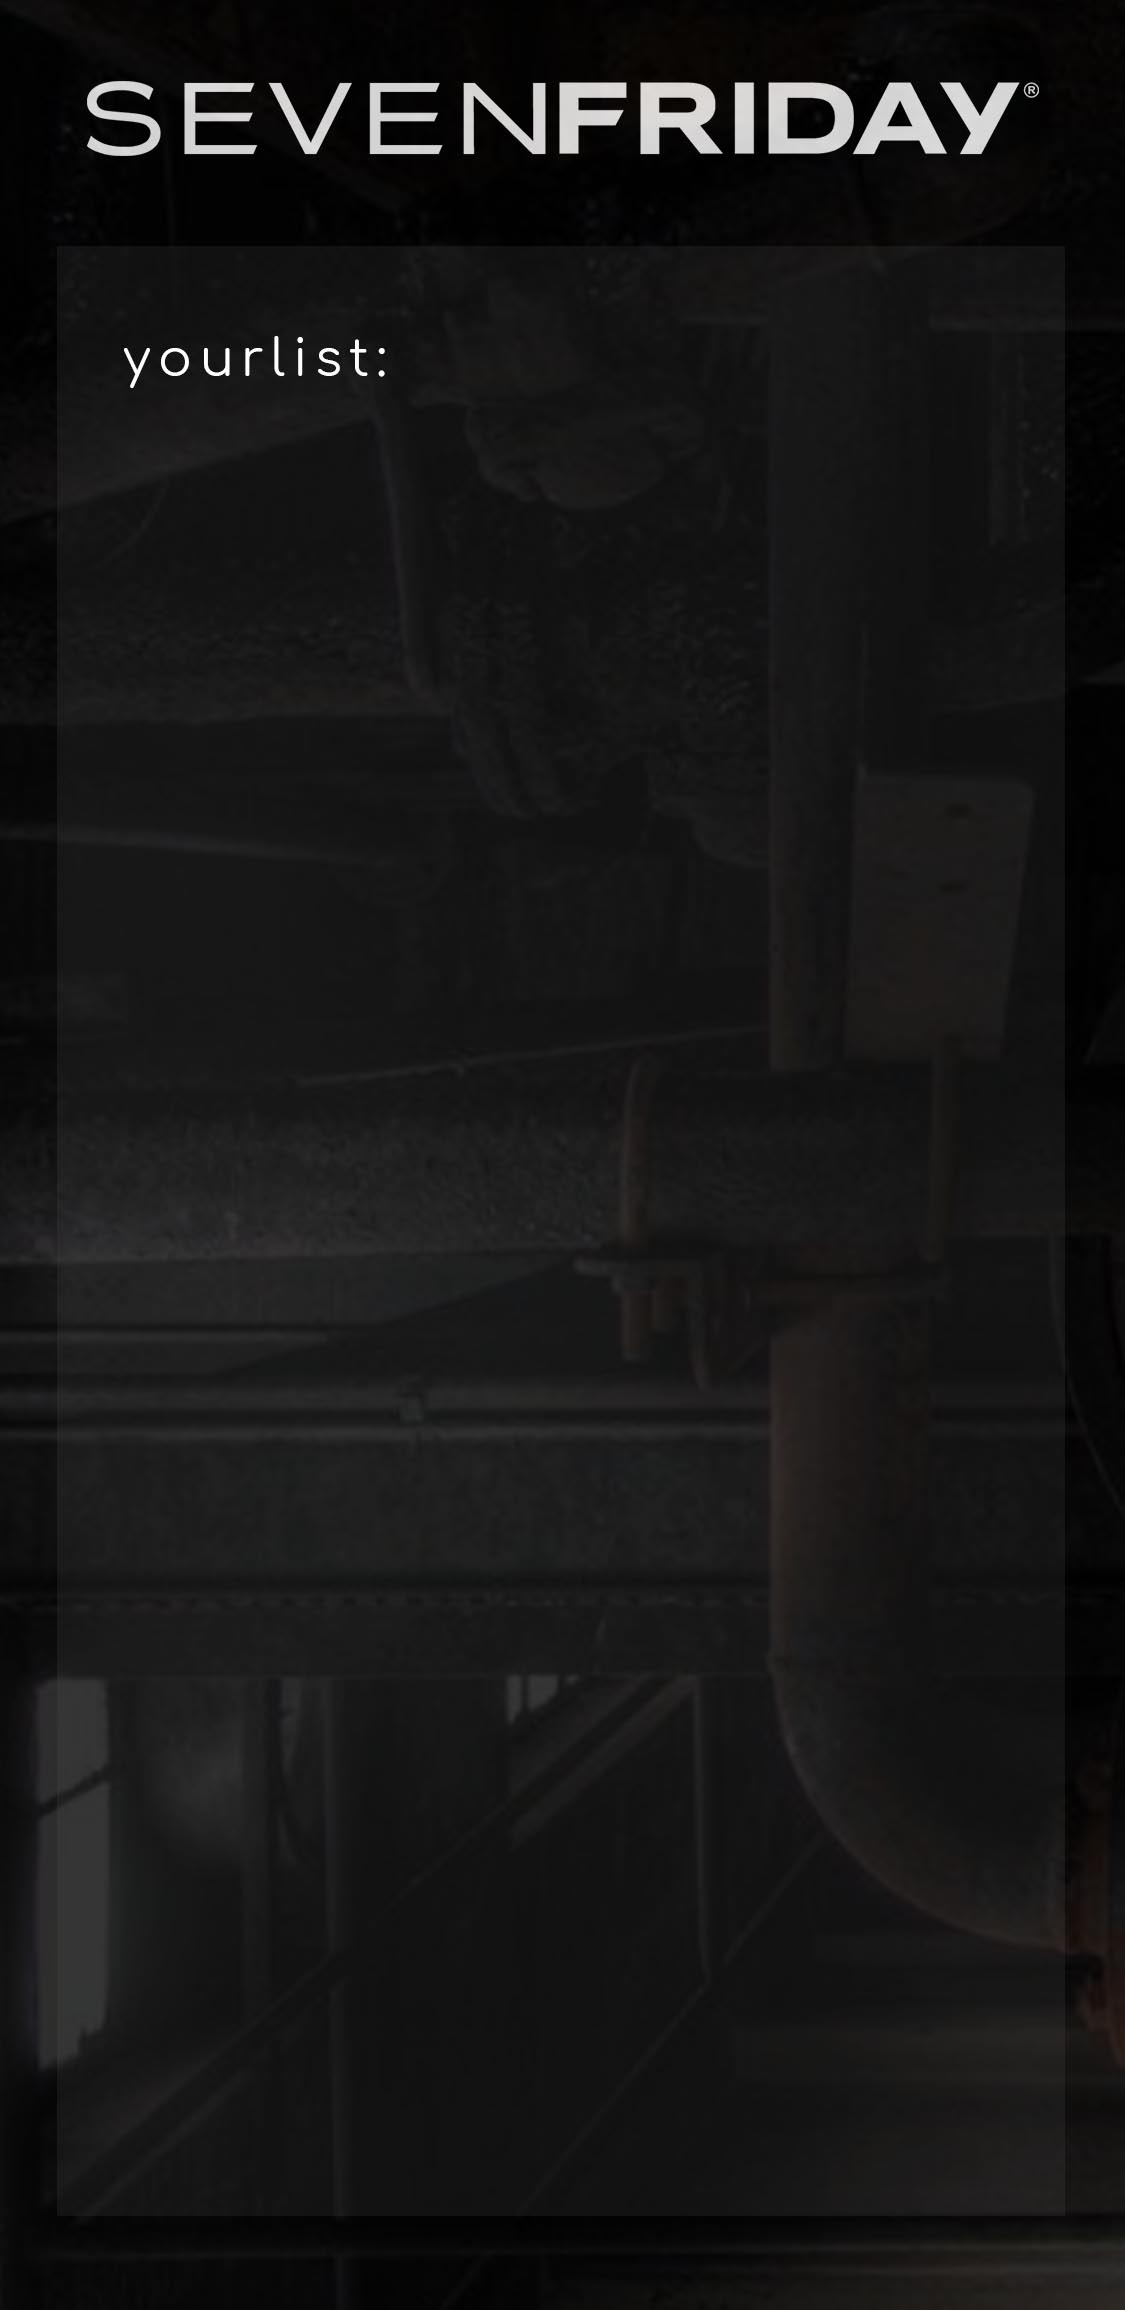
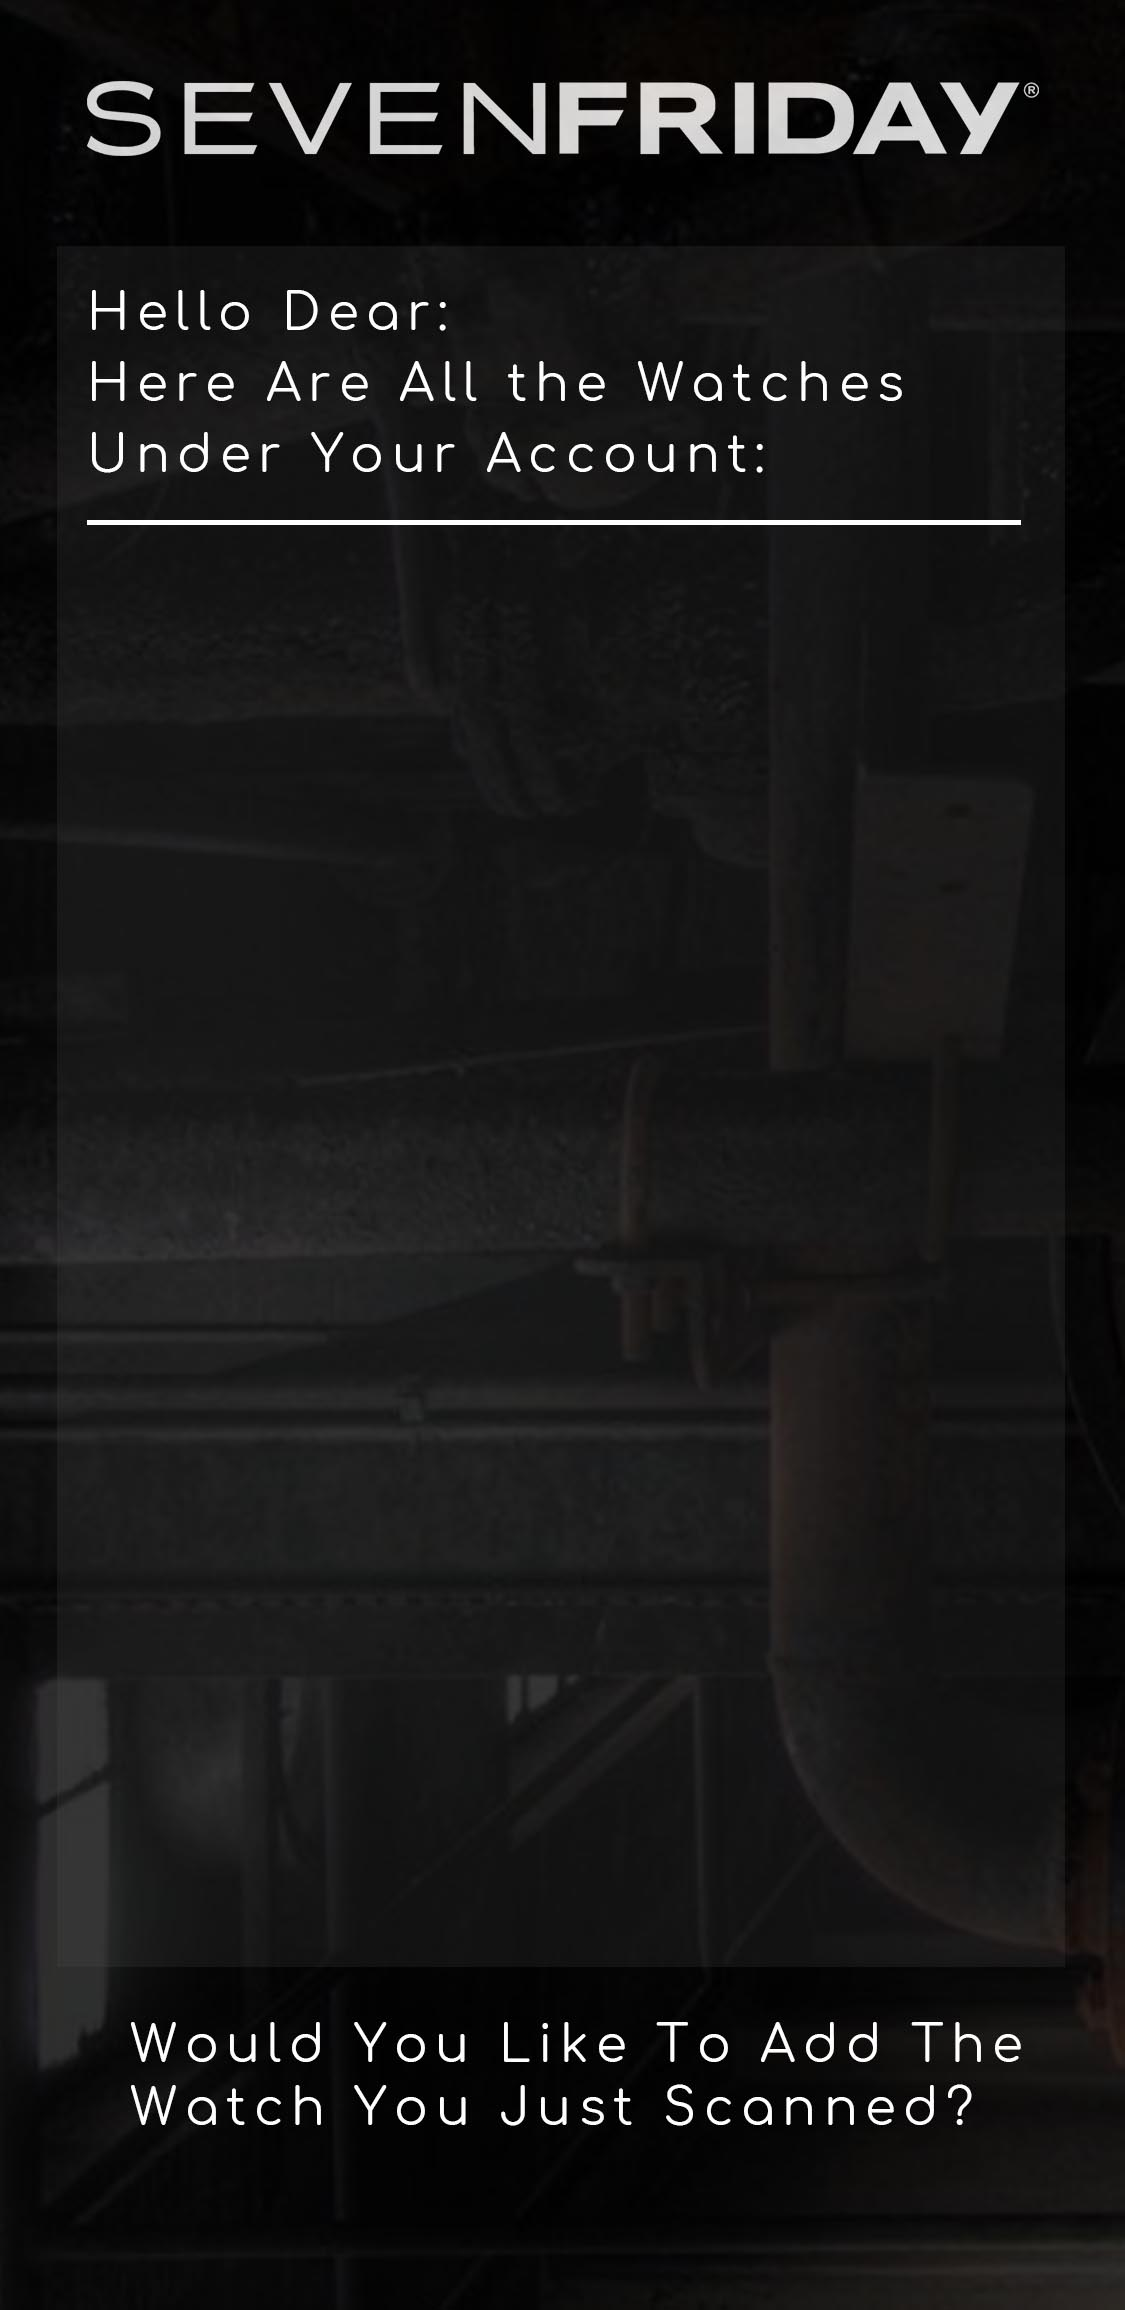
complate

diff --git a/public/userlist.html b/public/userlist.html
@@ -28,55 +28,50 @@
 
       .uname{
         position: absolute;
-        top: 15%;
-        left: 49%;
+        top: 11.7%;
+        left: 43%;
         font-size: 350%;
         color: white;
         opacity: 0.9;
       }
 
-      /* .img2{
-        position: absolute;
-        top: 34%;
-        left: 15%;
-        opacity: 0.9;
-      } */
-
-      /* .img3{
-        position: absolute;
-        top: 70%;
-        left: 32%;
-        font-size: 300%;
-        color: white;
-        opacity: 0.9;
-      } */
-
       .img4{
         position: absolute;
-        top: 20%;
-        left: 5%;
-        width: 90%;
-        height: 80%;
-        
+        top: 94%;
+        left: 41%;
       }
+
+      .img4 img:active{
+        opacity: 0.5;
+      }
+
+    .scroll-wrapper {   
+      -webkit-overflow-scrolling: touch;   
+      overflow-y: scroll;
+      position: absolute;
+      top: 30%;
+      left: 5%;
+      width: 90%;
+      height: 80%;
+      /* 提示: 请在此处加上需要设置的大小(dimensions)或位置(positioning)信息! */   
+    }   
+    .scroll-wrapper iframe {   
+      height: 65%;   
+      width: 100%;
+    } 
 
     </style>
   </head>
   <body onload="showUserWatch()">
-      
-      这是您账户下,已绑定手表的列表:
-      <br>
-      <br>
-      <br>
-      您是否要添加您刚才扫描的手表?
-      <button onclick="addWatch()">添加刚才扫描的手表</button>
-      <br>
     <div class="Container">
       <a id="uname" class="uname"></a>
       <img src="./image/userlist.jpg" class="img1">
-      <!-- <div id="d1" class="img2"></div> -->
-      <!-- <a id="a1" class="img3"></a> -->
-      <iframe src="watcheslist.html" class="img4" frameborder="0" scrolling="yes"></iframe>
+      <div class="scroll-wrapper">
+        <iframe src="watcheslist.html" frameborder="0" scrolling="yes"></iframe>
+      </div>
+      <button onclick="addWatch()" class="img4">
+        <img src="./image/yesbutton.png">
+      </button>
     </div>
 
     <script>
@@ -87,19 +82,6 @@
             var result = xhr.responseText
             var obj = JSON.parse(result)
             uname.innerHTML=obj.uname
-            // console.log(obj)
-            // var arr = obj.result
-            // console.log(arr)
-            // var arrObj = arr[0]
-            // console.log(arrObj)
-            // if(arrObj.wid==null){
-            //   console.log("arrObj.wid is null")
-            //   a1.innerHTML=""
-            //   d1.innerHTML=""
-            // }else{
-            //   a1.innerHTML=`SF-${arrObj.wid.replace("_","/")}-${arrObj.code}`
-            //   d1.innerHTML=`<img src="./image/${arrObj.wid.replace("_","-")}.png">`
-            // }
           }
         }
         var url = "/mypro/showUserWatch"+window.location.search

diff --git a/public/user.html b/public/user.html
@@ -51,6 +51,18 @@
         opacity: 0.9;
       }
 
+      .img4{
+        position: absolute;
+        top: 90%;
+        left: 32%;
+        font-size: 300%;
+        color: white;
+        /* opacity: 0; */
+        background-color: black;
+        border: 0px;
+      }
+
+
     </style>
   </head>
   <body onload="showUserWatch()">
@@ -61,13 +73,11 @@
         <div id="d1" class="img2"></div>
         <a id="a1" class="img3"></a>
       </div>
-      <button onclick="toUserList()">返回我的账户</button>
+      <button onclick="toUserList()" class="img4">
+          . Back To My Account ---
+      </button>
 
     <script>
-      // console.log(decodeURI(window.location))
-      // var urlStr = decodeURI(window.location)
-      // var unameFirstIndex = urlStr.search("uname=")
-      // uname.innerHTML = urlStr.slice(unameFirstIndex+6)
       function showUserWatch(){
         var xhr = new XMLHttpRequest()
         xhr.onreadystatechange= ()=>{
@@ -76,7 +86,7 @@
             var obj = JSON.parse(result)
             console.log(obj)
             if(obj.addWatch=="error"){
-              window.location.href=`${window.location.origin}/fail.html`
+              // window.location.href=`${window.location.origin}/fail.html`
               console.log(obj.addWatch)
             }else{
               uname.innerHTML=obj.uname

diff --git a/public/watcheslist.html b/public/watcheslist.html
@@ -8,6 +8,7 @@
         color: white;
         text-align: center;
         font-size: 300%;
+        font-family:'Lucida Sans', 'Lucida Sans Regular', 'Lucida Grande', 'Lucida Sans Unicode', Geneva, Verdana, sans-serif;
       }
     </style>
 
@@ -15,9 +16,8 @@
   <body>
 
     <div class="Container">
-        <!-- <img src="./image/userlist.jpg" class="img1"> -->
+      
         <div id="d1" class="d1"></div>
-        <!-- <div id="d2"></div> -->
         
     </div>
 

diff --git a/routes/mypro.js b/routes/mypro.js
@@ -400,4 +400,5 @@ router.get("/afterAddWatch",(req,res)=>{
   })
 })
 
+
 module.exports=router
